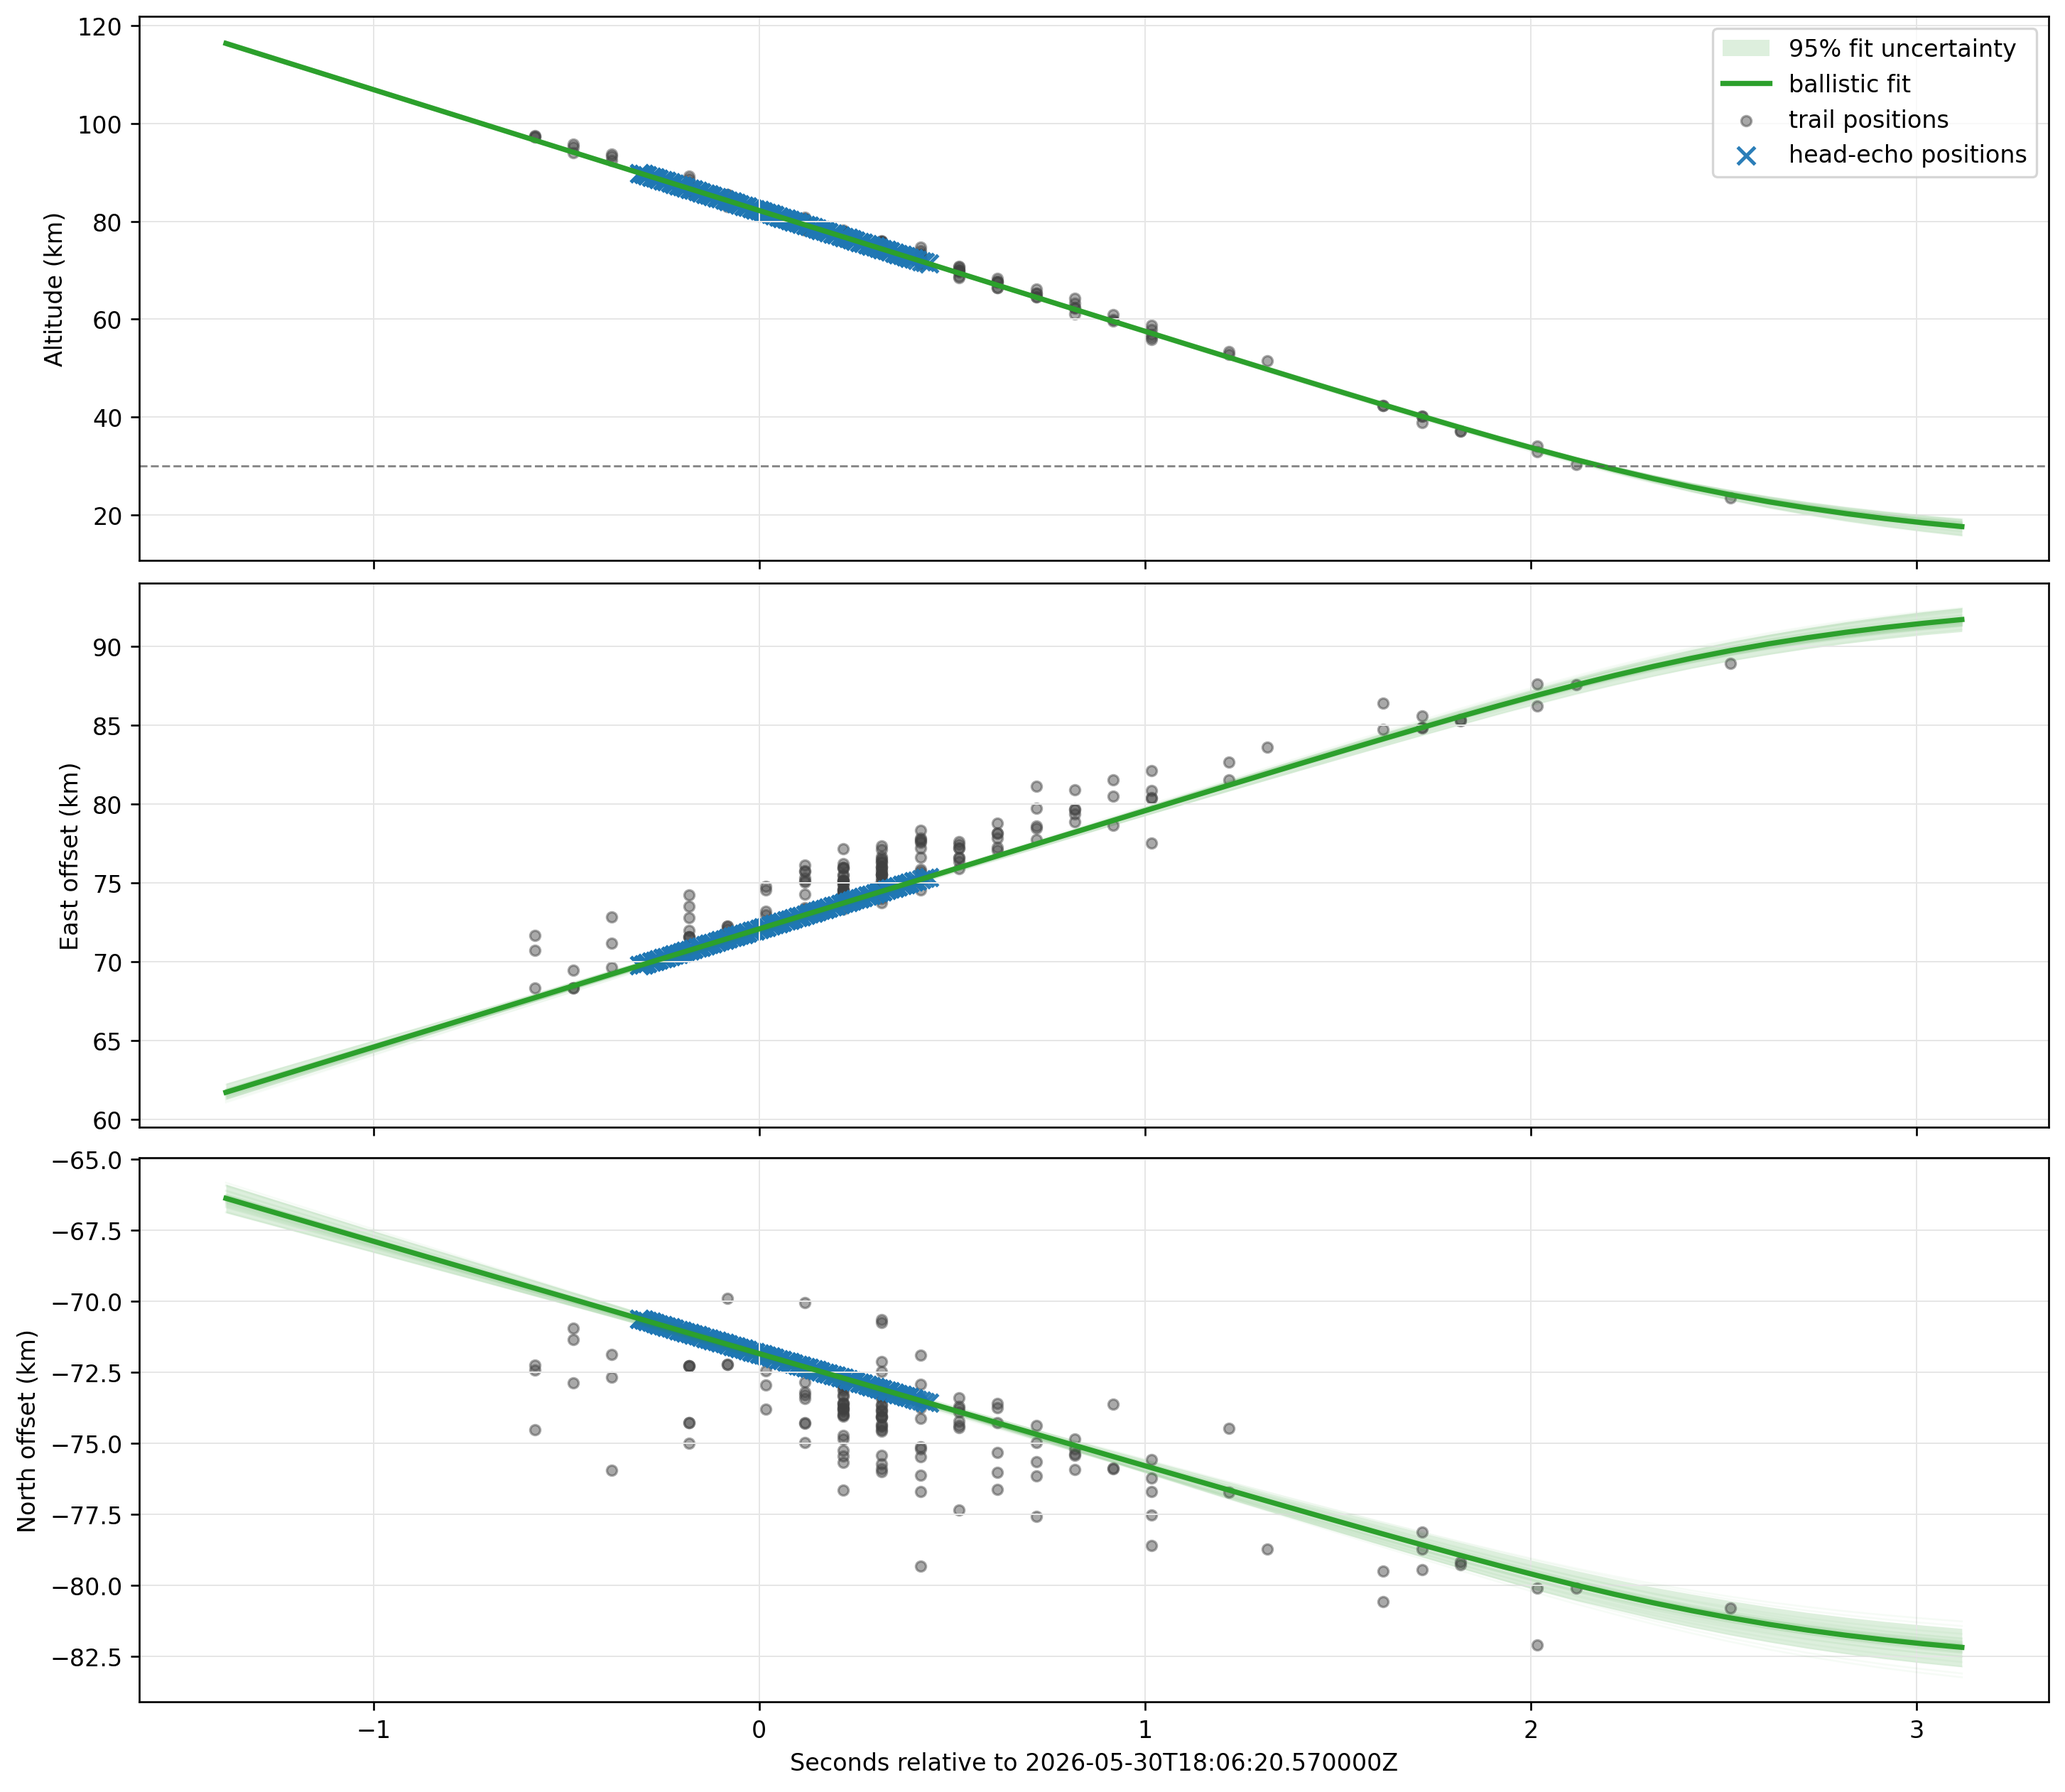
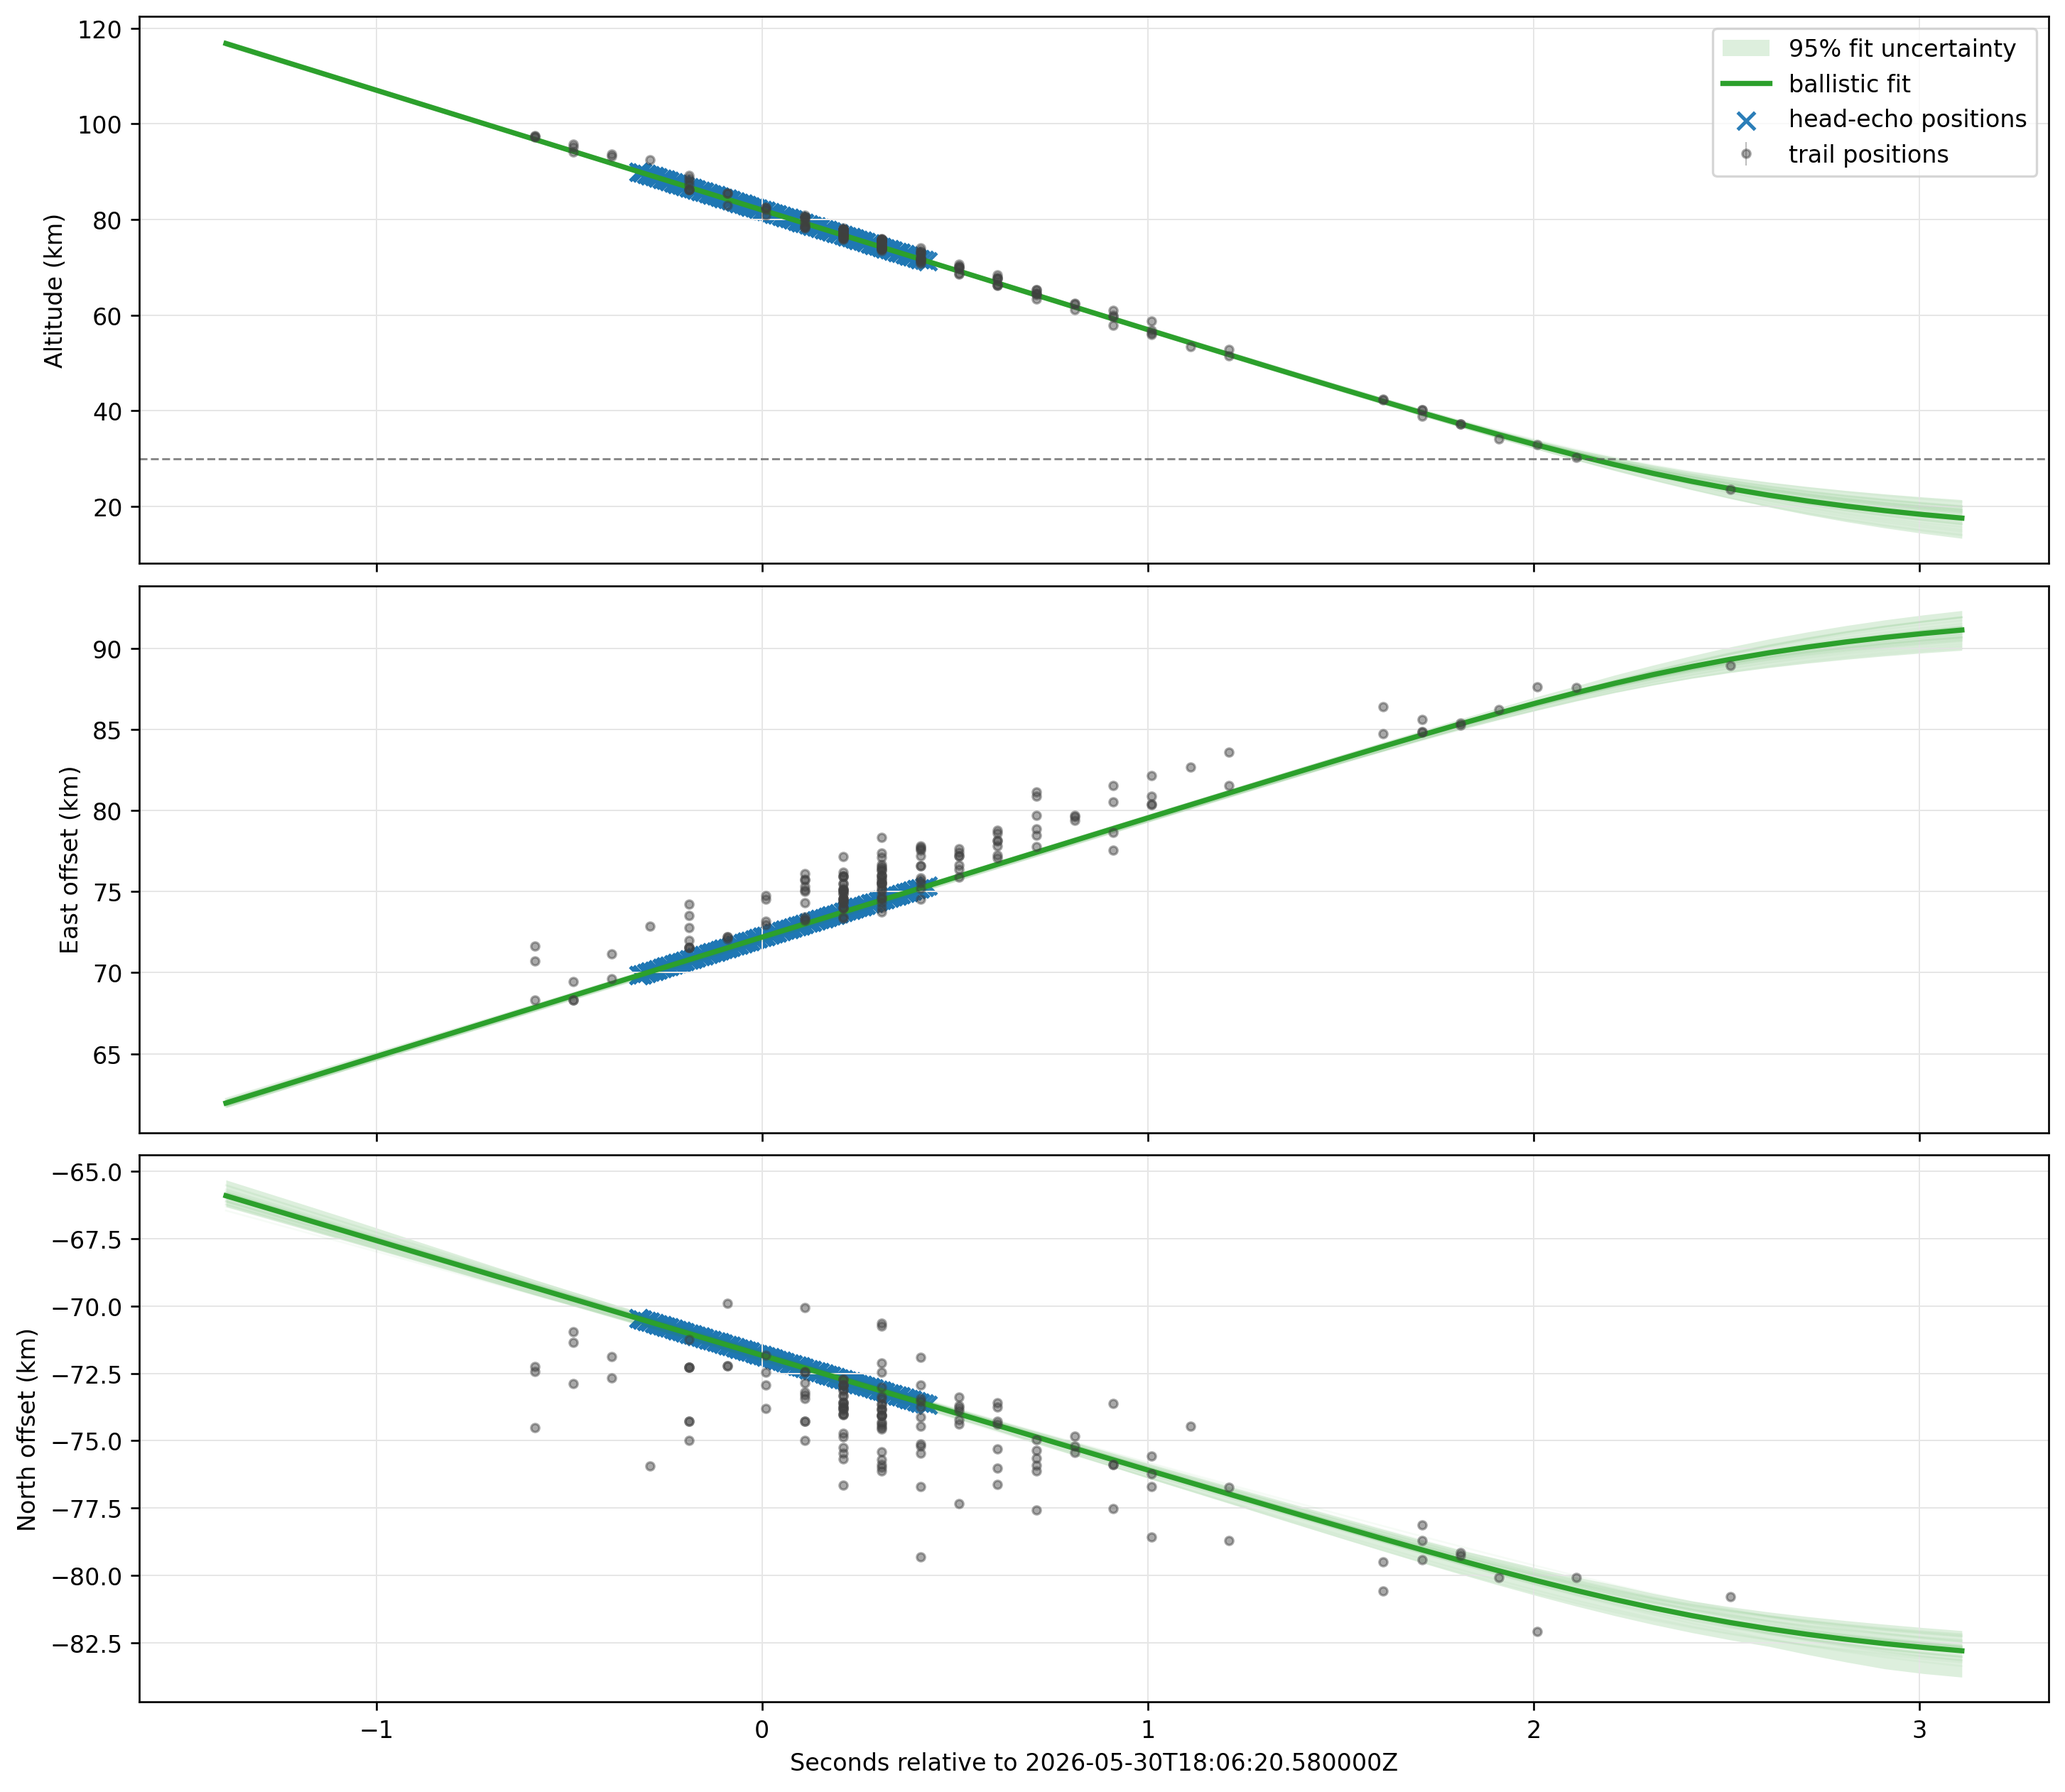
Add trail position error bars to Figure 5

diff --git a/fit_ballistic_head_trail.py b/fit_ballistic_head_trail.py
@@ -585,6 +585,13 @@ def plot_altitude_enu(
     tau = np.asarray(tau)
     trail_enu = np.array([r["position_enu_m"] for r in trail_rows], dtype=float) / 1000.0
     trail_alt = np.array([r["alt_m"] for r in trail_rows], dtype=float) / 1000.0
+    trail_sigma_enu = np.array(
+        [
+            (r.get("uncertainty") or {}).get("position_sigma_enu_m", [np.nan, np.nan, np.nan])
+            for r in trail_rows
+        ],
+        dtype=float,
+    ) / 1000.0
     fig, axes = plt.subplots(3, 1, figsize=(12, 10.4), sharex=True, constrained_layout=True)
     tr = t - t_ref
     if params is not None and cov is not None and density_profile is not None and args is not None:
@@ -615,13 +622,25 @@ def plot_altitude_enu(
                 )
                 for vals in sample_values[:30, ai, :]:
                     ax.plot(tr, vals, color="C2", alpha=0.04, lw=0.8)
-    for ax, y, scat, ylabel in [
-        (axes[0], alt, trail_alt, "Altitude (km)"),
-        (axes[1], enu[:, 0], trail_enu[:, 0], "East offset (km)"),
-        (axes[2], enu[:, 1], trail_enu[:, 1], "North offset (km)"),
+    for ax, y, scat, sigma, ylabel in [
+        (axes[0], alt, trail_alt, trail_sigma_enu[:, 2], "Altitude (km)"),
+        (axes[1], enu[:, 0], trail_enu[:, 0], trail_sigma_enu[:, 0], "East offset (km)"),
+        (axes[2], enu[:, 1], trail_enu[:, 1], trail_sigma_enu[:, 1], "North offset (km)"),
     ]:
         ax.plot(tr, y, color="C2", lw=2.2, label="ballistic fit")
-        ax.scatter(tau, scat, s=18, color="0.25", alpha=0.45, label="trail positions")
+        ax.errorbar(
+            tau,
+            scat,
+            yerr=sigma,
+            fmt="o",
+            ms=3.4,
+            color="0.25",
+            ecolor="0.25",
+            elinewidth=0.45,
+            capsize=0.0,
+            alpha=0.45,
+            label="trail positions",
+        )
         ax.set_ylabel(ylabel)
         ax.grid(True, color="0.9", lw=0.6)
     axes[0].axhline(30.0, color="0.35", lw=0.9, ls="--", alpha=0.7)
